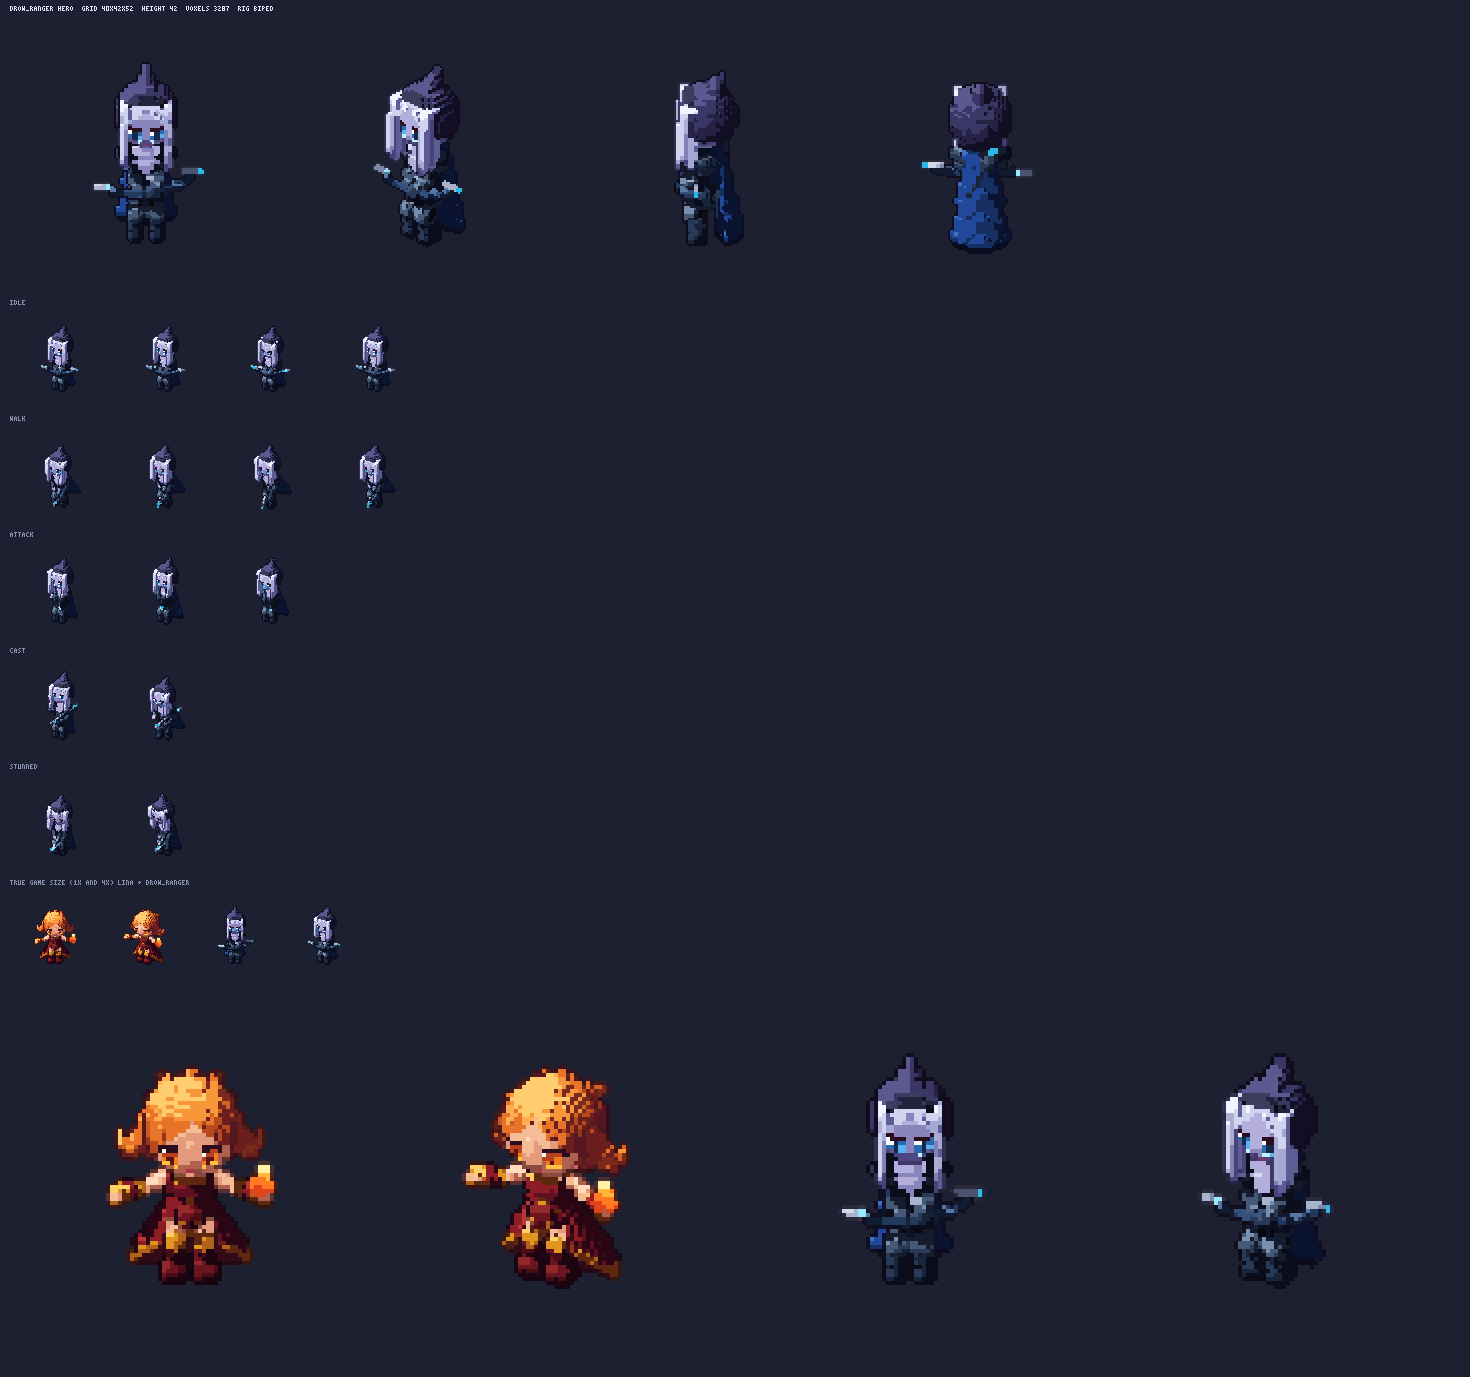
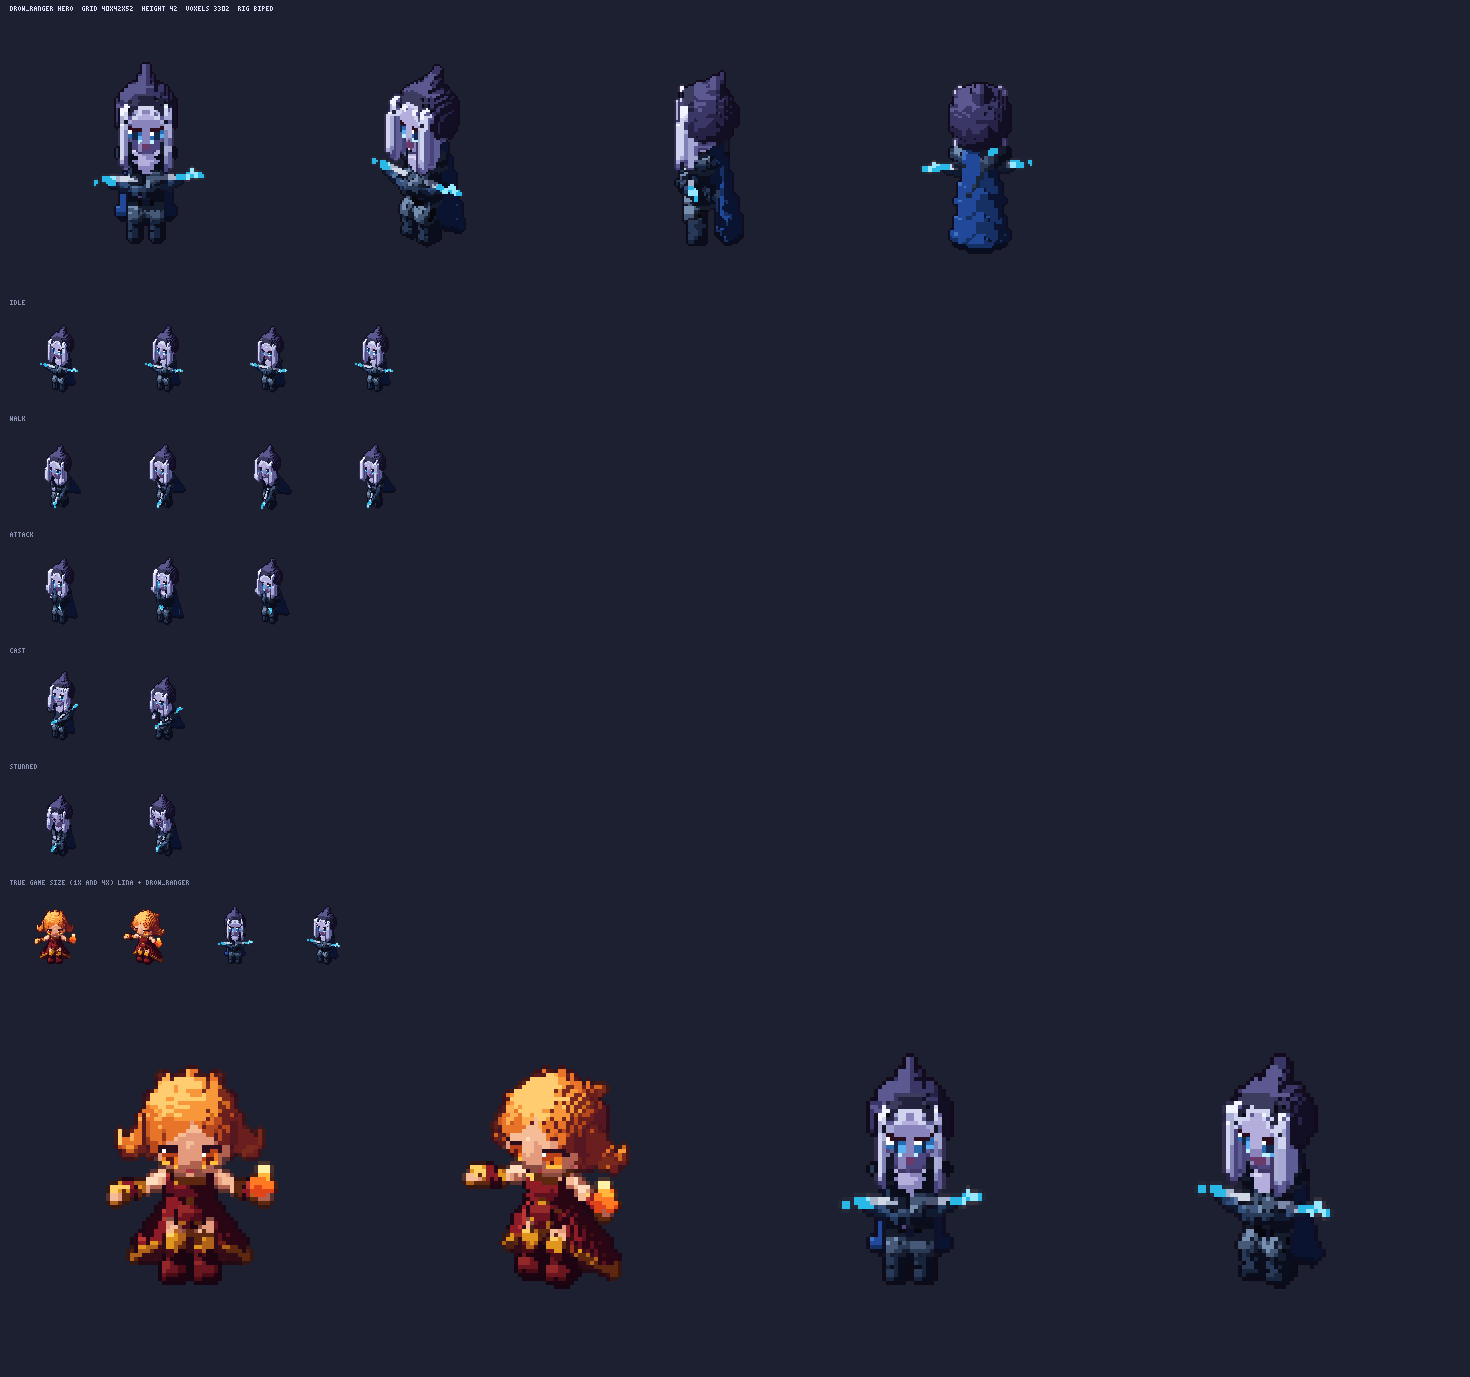
Drow Ranger review fixes: recurve bow reads (centred grip, stronger bend + tip flick, string under the limbs); skin chin + neck, lower collar, hair tapered into the hood

diff --git a/client/src/art/portraits/drow_ranger.js b/client/src/art/portraits/drow_ranger.js
@@ -1,7 +1,7 @@
 // GENERATED by tools/vox/portrait.mjs (drow_ranger) -- do not edit by hand. Voxel HUD portrait 32x42 (= the 32x42 the HUD shows, 1 art px = 1 u), opaque.
 // Loaded by client/src/art/portraits.js, which swaps it into the sheet's 'portrait' frame unless ?vox=0.
 export default {
-  pal: { '0':'#46447a', '1':'#0a0e1c', '2':'#aaaed4', '3':'#707fc8', '4':'#141428', '5':'#d0d4ee', '6':'#14284a', '7':'#525863', '8':'#a8b0ca', '9':'#5ab0f0', '!':'#111314', '#':'#151d1f', '$':'#1b3037', '%':'#4e4680', '&':'#5e5c94', '(':'#25505f', ')':'#a4a8d2', '*':'#120b1b', '+':'#342e4e', ',':'#3a3666', '-':'#e2efe7', '/':'#8a84bc', ':':'#d0dedd', ';':'#141c2e', '<':'#080b16', '=':'#8b91ac', '>':'#b8cafe', '?':'#2b2a3d', '@':'#18243c', 'A':'#111021', 'B':'#0c1425', 'C':'#262246', 'D':'#a0a6be', 'E':'#2a0e1e', 'F':'#0e0b18', 'G':'#131120', 'H':'#2a3a54', 'I':'#212d42', 'J':'#101624', 'K':'#0d0c1a', 'L':'#9ea8b5', 'M':'#0e0915', 'N':'#c3ccdd', 'O':'#0e0d21', 'P':'#606f79', 'Q':'#11254e', 'R':'#7a8f94', 'S':'#222130', 'T':'#62657e', 'U':'#317c94', 'V':'#909c9e', 'W':'#8082b6', 'X':'#6f7ec6', 'Y':'#bff0ff', 'Z':'#6a3a6a', '[':'#7d99d6', ']':'#647ebf', '^':'#283a58', '_':'#648bdf', 'a':'#8e9ba6', 'b':'#22489a', 'c':'#6c8bce', 'd':'#9cb7be', 'e':'#4e6cae', 'f':'#1f2d45', 'g':'#131c2f', 'h':'#7382ca', 'i':'#6c6f8e', 'j':'#120e24', 'k':'#d8e2e2', 'l':'#7c97d4', 'm':'#292342', 'n':'#91a7ac', 'o':'#222837', 'p':'#abc2c3', 'q':'#1b3878', 'r':'#37465e', 's':'#4b575e', 't':'#939ea5', 'u':'#22223c', 'v':'#7281ca', 'w':'#5c5890', 'x':'#f2f4ff', 'y':'#4d535a', 'z':'#d9e2eb', '{':'#2a6ab0', '|':'#ffffff', '}':'#b3c4fa', '~':'#2d2445', '¡':'#627cbc', '¢':'#9394b1', '£':'#637dbd', '¤':'#a6bbf1', '¥':'#2ab8e6', '¦':'#101a30', '§':'#7c88a8', '¨':'#616a83', '©':'#0f0d19', 'ª':'#859798', '«':'#0b0a1a', '¬':'#6277a7', '®':'#36313c', '¯':'#8394be', '°':'#6e767b', '±':'#78b5c7', '²':'#0d1c3a', '³':'#5a73a6', '´':'#566fa4', 'µ':'#142136', '¶':'#1b2c48', '·':'#0e1523', '¸':'#2d353a' },
+  pal: { '0':'#141428', '1':'#46447a', '2':'#0a0e1c', '3':'#aaaed4', '4':'#707fc8', '5':'#525863', '6':'#222837', '7':'#a8b0ca', '8':'#8b91ac', '9':'#14284a', '!':'#111314', '#':'#151d1f', '$':'#1b3037', '%':'#4e4680', '&':'#25505f', '(':'#5e5c94', ')':'#120b1b', '*':'#342e4e', '+':'#a4a8d2', ',':'#3a3666', '-':'#8a84bc', '/':'#e2efe7', ':':'#2190b3', ';':'#0c1425', '<':'#080b16', '=':'#d0d4ee', '>':'#5ab0f0', '?':'#141c2e', '@':'#18243c', 'A':'#1b1f2b', 'B':'#b8cafe', 'C':'#d0dedd', 'D':'#2ab8e6', 'E':'#1b2c48', 'F':'#262246', 'G':'#2a0e1e', 'H':'#0e0b18', 'I':'#2a3a54', 'J':'#101624', 'K':'#9ea8b5', 'L':'#0e0915', 'M':'#8082b6', 'N':'#36313c', 'O':'#0d0c1a', 'P':'#62657e', 'Q':'#317c94', 'R':'#909c9e', 'S':'#c3ccdd', 'T':'#6f7ec6', 'U':'#bff0ff', 'V':'#6a3a6a', 'W':'#131120', 'X':'#647ebf', 'Y':'#292342', 'Z':'#91a7ac', '[':'#0e0d21', ']':'#648bdf', '^':'#2b2a3d', '_':'#9ae8ff', 'a':'#606f79', 'b':'#4a5470', 'c':'#546ca1', 'd':'#7a8f94', 'e':'#7382ca', 'f':'#6c6f8e', 'g':'#4d535a', 'h':'#a0a6be', 'i':'#120e24', 'j':'#7c97d4', 'k':'#22489a', 'l':'#1b3878', 'm':'#a8b4cc', 'n':'#616a83', 'o':'#212d42', 'p':'#7c88a8', 'q':'#111021', 'r':'#7281ca', 's':'#5c5890', 't':'#22223c', 'u':'#f2f4ff', 'v':'#2a6ab0', 'w':'#ffffff', 'x':'#7d99d6', 'y':'#283a58', 'z':'#627cbc', '{':'#4e5b64', '|':'#a6bbf1', '}':'#8e9ba6', '~':'#a7bdf3', '¡':'#3a4257', '¢':'#838c9f', '£':'#37465e', '¤':'#abc2c3', '¥':'#566977', '¦':'#4b575e', '§':'#3d474e', '¨':'#101a30', '©':'#131c2f', 'ª':'#0b0a1a', '«':'#4e6cae', '¬':'#0d1c3a', '®':'#142136', '¯':'#060810', '°':'#718286', '±':'#08060e' },
   face: [4, 11, 24, 24],
   rows: [
     '!!!!!!!!!!!#!#!#!#######!#!#!!!!',
@@ -11,40 +11,40 @@ export default {
     '!!!!!!!#!######$#$#$#$#$######!#',
     '!!!!!!#!####$#$$$$$$$$$$$#$#####',
     '!!!!!#!#!####$#$$$$$$$$$$$#$####',
-    '!!!!#!####$#$**$($($($($($$#$###',
-    '!!!!!!!#!##$*hL*$($($($($$$$####',
-    '!!#!#!####$#*hiL*$((((($($$$$#$#',
-    '!!!!!#!####$*3iTL*(((((($($$#$##',
-    '!!!!####$#$*3,CTTLM(U(((($$$$#$#',
-    '!!!!!#!###**3,C477VMMU(($$$$#$##',
-    '!!#!#!###*3,,4C44777VMU(($($$#$#',
-    '!!!!!#!#**3,,4u444477V+++($$#$##',
-    '!!!!###*vwx55))))))&DyzN-+$$$#$#',
-    '!!!!!#!*3,,)))&&)%%)&&&D-+$$####',
-    '!!#!#!*3,,,2))&)////&&&D-+$$$#$#',
-    '!!!!!#*3,,,2W)&)//%%%&&D-+#$#$##',
-    '!!!!#!*3,,52))&%%%%%%%&D-+$#$###',
-    '!!!!!!*3,C52)0/%%%%%%%&8-+#$####',
-    '!!!!!!*3,C52)0EEE%%%EE&=-+$#####',
-    '!!!!!!*3,j52)066{%%%|6&=-+####!#',
-    '!!!!#!#*Xj52)0669%%%669=-+#####!',
-    '!!!!!!!!*X>2)0969%%%9Y&8-+##!#!#',
-    '!!!!!!#!*X>2)099Y%%%Y&&8-+###!#!',
-    '!!!!!!!!!+>2)0%%%%%%&&&8-+!#!#!!',
-    '!!!!!!!!#+>2)00%ZZZkF}&8-+#!#!#!',
-    '!!!!!!!!!+>2):0&&&k~¡&&8-+!#!!!!',
-    '!!!!!!!!!G>2N://%¢%%1&&8-+#!!!!!',
-    '!!!!!!!!F[5)N:///%%/10&=-+!!!!!!',
-    '!!!!!!!F]^)WN:1%%%%110&=-+!!#!!!',
-    '!!!!!!!F]^W00:%%/%%%100=-+!!!!!!',
-    '!!!!!!!!Gl;&&:%//%%%;;0:m!!!!!!!',
-    '!!!!!!!!GlHHH&1/%%%11nFm!????o!!',
-    '!!!!!!!!!O_£@@@1%%%1nG!!?¤aaa¥o!',
-    '!!!!!!!!!O_b]@@1111PPpG!!Ac¦dA!!',
-    '!!!!!!!!O_qb[HI;1§¨;Pp©!AcBdA!!!',
-    '!!!!!!!!OebQ[IHJ1<;JPªAKcBdK!!!!',
-    '!!!!!!!!«eqQ¬rIJ<<IJssBBBRK!!!!!',
-    '!!!!?SSS®eQQ^frI;Jfg@<<RAK!!!!!!',
-    '!!!S¯t°t±R²³f´µ¶Bg·g<<¸RK!!!!!!!'
+    '!!!!#!####$#$))$&$&$&$&$&$$#$###',
+    '!!!!!!!#!##$)eK)$&$&$&$&$$$$####',
+    '!!#!#!####$#)efK)$&&&&&$&$$$$#$#',
+    '!!!!!#!####$)4fPK)&&&&&&$&$$#$##',
+    '!!!!####$#$)4,FPPKL&Q&&&&$$$$#$#',
+    '!!!!!#!###))4,F055RLLQ&&$$$$#$##',
+    '!!#!#!###)4,,0F00555RLQ&&$&$$#$#',
+    '!!!!!#!#)4,,,00000055R**$&$$#$##',
+    '!!!!###)rs,t=+00+++(5gS/*$$$$#$#',
+    '!!!!!#!)4,u==+0(+%%++05h/*$$####',
+    '!!#!#!)4,,,3++((----(((h/*$$$#$#',
+    '!!!!!#)4,,,3M+((--%%%((g/*#$#$##',
+    '!!!!#!)4,,,3M0(%%%%%%%(7/*$#$###',
+    '!!!!!!)4,F,3+1-%%%%%%%(7/*#$####',
+    '!!!!!!)4,F=3+1GGG%%%GG(8/*$#####',
+    '!!!!!!)4,i=3+199v%%%w9(8/*####!#',
+    '!!!!#!#)Ti=3+199>%%%99>8/*#####!',
+    '!!!!!!!!)TB3+1>9>%%%>U(7/*##!#!#',
+    '!!!!!!#!)TB3+1>>U%%%U((7/*###!#!',
+    '!!!!!!!!!*B3+1%%%%%%%((7/*!#!#!!',
+    '!!!!!!!!#*B3+1%--VVV%((7/*#!#!#!',
+    '!!!!!!!!!*B3+1%%%%%%%((7/*!#!!!!',
+    '!!!!!!!!!WB3+C-%%%%??((7/*#!!!!!',
+    '!!!!!!!!Hx=+SC--%%%%?1(8/*!!!!!!',
+    '!!!!!!!HXy+MSC---%%221(8/*!!#!!!',
+    '!!!!!!!HX2M188C--%%%2118/*!!!!!!',
+    '!!!!!!!!Wj2((C%--%%%2?1CY!!!!!!!',
+    '!!!!!!!!WjIII(2-%%%2ZHYY!!!N!!!!',
+    '!!!!!!!!![]z@@@2%%%{ZH!^^66_N6!!',
+    '!!!!!!!!![]kX@@222?aaZ^|}DD__D6!',
+    '!!!!!!A66]lk~mn?@Io?ab¡bbDANN6!!',
+    '!!!!6AD:D:p¢mnpJ2£IJ¤Oqc¥dq!!!!!',
+    '!!!A::::::;;EEJJ<Jo¦§;;dOO!!!!!!',
+    '!!!!6AAA[c;;¨EEE@©<<2<dO!!!!!!!!',
+    '!!!!!!!ª«l¬c;;®E<<¯<<°±!!!!!!!!!'
   ]
 };

diff --git a/shared/vox/heroes/drow_ranger.js b/shared/vox/heroes/drow_ranger.js
@@ -19,14 +19,14 @@ export const PROP = {
 const HZ = PROP.headZ, SKULL = [5.4, 5.1, 6];
 // hair fringe bottom per column dx -6..6: parted in the middle, sweeping down past the temples
 const FRINGE = [26, 28, 31.6, 33, 33.8, 34.6, 34.6, 33.8, 33, 31.6, 28, 26, 25].map(z => z + (HZ - 30.4));
-const HOLD_L = [-2.6, -5, -7.2];   // left hand low in front of the hip, gripping the bow (reach from the left shoulder, torso frame)
+const HOLD_L = [-4.4, -5, -7.2];   // left hand low in front of the hip, gripping the bow (reach from the left shoulder, torso frame)
 const HOLD_R = [2.8, -3.6, -7.6];  // right hand near the string
 
 /** Bow pose [tilt, yaw, len]: tilt 0 = limbs across the front (her right tip slightly down), 90 = upright; yaw turns the bow face (degrees). */
 const bowAxes = (tilt, yaw) => {
   const t = tilt * Math.PI / 180, w = yaw * Math.PI / 180;
   const d = norm3([-Math.cos(t) * Math.cos(w), -Math.cos(t) * Math.sin(w), Math.sin(t)]);   // from the grip toward her right / up
-  const n = norm3([-Math.sin(w) * 0.6, Math.cos(w) * 0.6, 0.8 * Math.cos(t)]);                       // string side: toward her and up (limbs curve up)
+  const n = norm3([-Math.sin(w) * 0.4, Math.cos(w) * 0.4, 0.92 * Math.cos(t)]);                       // string side: toward her and up (limbs curve up)
   return [d, n];
 };
 
@@ -86,7 +86,7 @@ export function build(p = {}) {
   }
 
   // ---- bodice: dark navy leather, pinched waist, a steel belt; short tassets over the hips; a pale skin V at the neckline
-  torso(v, T.torso, { c: [cx, cy], z0: 9.6 + U, z1: 20.8 + U, r: 6 }, (dx, dy, z) => {
+  torso(v, T.torso, { c: [cx, cy], z0: 9.6 + U, z1: 19.8 + U, r: 6 }, (dx, dy, z) => {
     const rx = 3 - Math.max(0, 3.6 - z) * 0.05 + Math.max(0, z - 5) * 0.16, ry = 2.3 + (dy < 0 && z > 6 && z < 9.4 ? 0.5 : 0);
     if ((dx / rx) ** 2 + (dy / ry) ** 2 > 1) return;
     if (z > 1.6 && z < 2.6) return M.steel;
@@ -96,8 +96,8 @@ export function build(p = {}) {
   skirt(v, T.torso, { c: [cx, cy + 0.2], z0: 7.4 + U, z1: 10.6 + U, zr: 10.6 + U, h: 3.6, r0: 3.6, dr: 1, sy: 0.82, shell: 1, open: 40, hemH: 0.8, floor: () => 7.4 + U }, M.navy, M.steel);
 
   // ---- shoulders: navy mantle, layered steel-blue pauldrons (two tiers)
-  ell(v, T.torso, [cx, cy + 0.6, 19.6 + U], [5.6, 3.8, 2.2], M.navy, (px, py, pz) => pz > 19 + U && (Math.abs(px - cx) > 2.6 || py > cy + 0.4));
-  cap(v, T.torso, [cx, cy + 0.3, 20 + U], [cx, cy + 0.3, 22 + U], 1.5, M.skin);   // neck
+  ell(v, T.torso, [cx, cy + 0.6, 18.6 + U], [5.6, 3.8, 2.2], M.navy, (px, py, pz) => pz > 18 + U && (Math.abs(px - cx) > 2.6 || py > cy + 0.4));
+  cap(v, T.torso, [cx, cy + 0.3, 20 + U], [cx, cy + 0.3, 22.4 + U], 1.8, M.skin);   // neck
 
   for (const k of ['R', 'L']) {
     const sh = J['shoulder' + k];
@@ -121,12 +121,13 @@ export function build(p = {}) {
   const hair = (px, pz) => (pz > hz + 4 ? M.hair : stripes(M.hair, M.hairD, 3, hz + 4)(px, pz));
   hairShell(v, Th, {
     c: [hx, hy + 0.5, hz + 0.5], r: [SKULL[0] + 0.9, SKULL[1] + 0.9, SKULL[2] + 0.8], win, face: { c: [hx, hy, hz], r: SKULL, m: M.skin }, head: [cx, cy],
-    curtains: { inner: 4.2, outer: 6, outerK: -0.04, zRef: hz, front: -5.6, frontK: -0.08, back: -0.6, tip: hz - 10.6, tipStep: 0.8, tipX: 4.4, tipK: 1.2, box: [-9, -8, hz - 13, 9, 4, hz + 4] },
+    curtains: { inner: 4.2, outer: 5.8, outerK: 0.07, zRef: hz, front: -5.6, frontK: -0.08, back: -0.6, tip: hz - 10.6, tipStep: 0.8, tipX: 4.4, tipK: 1.2, box: [-9, -8, hz - 13, 9, 4, hz + 4] },
   }, hair);
   // hood: dark indigo shell with a dark lining at the rim, open in front of the face, a tall point leaning back off the crown
-  const hoodWin = (px, py, pz) => (Math.abs(px - cx) < 6.4 && pz < hz + 5.4 && py < hy - 2.4 + Math.max(0, hz - 1 - pz) * 1.4) || (pz < hz - 2.6 && py < hy + 3.4);
+  const hoodWin = (px, py, pz) => (Math.abs(px - cx) < 6.4 - Math.max(0, pz - hz + 1) * 0.7 && pz < hz + 5.4 && py < hy - 2.4 + Math.max(0, hz - 1 - pz) * 1.4) || (pz < hz - 2.6 && py < hy + 3.4);
   ell(v, Th, [hx, hy + 1.2, hz + 1], [7.1, 7, 7.4], (px, py, pz) => (py < hy - 3.6 || (py < hy - 1.8 && pz > hz + 4.4) ? M.lining : M.hood), (px, py, pz) => !hoodWin(px, py, pz));
   cap(v, Th, [hx, hy + 2.2, hz + 6], [hx, hy + 5.4, hz + 11.6], 3.2, M.hood, 0.5);
+  ell(v, Th, [hx, hy - 1.6, hz - 5.2], [2.8, 2.6, 1.8], M.skin);   // chin: skin over the hair shell's bottom cap
 
   // ---- face, painted on the front-most voxels (follows the posed head)
   const ez0 = Math.round(hz - 3.6), ec = xfApply(Th, [cx, hy - SKULL[1], ez0 + 2]), ox = Math.round(ec[0] - cx), ez = ez0 + Math.round(ec[2] - (ez0 + 2));
@@ -143,8 +144,8 @@ export function build(p = {}) {
   decal(v, [[cx - 1 + ox, ez - 2], [cx + ox, ez - 2]], M.mouth);
 
   // ---- bow in the left hand (after the face so it never takes the eye paint): dark limbs, glowing cyan recurve tips, pale string
-  const [tilt, yaw, len] = p.bow || [-8, 6, 13], [d, n] = bowAxes(tilt, yaw);
-  bow(v, J.handL, d, n, { len, bend: 4.8, recurve: 1.3, r: 0.85 }, { limb: M.wood, tip: (px, py, pz) => (Math.floor(px + py + pz) % 3 === 0 ? M.tipL : M.tip), grip: M.navy, string: M.string });
+  const [tilt, yaw, len] = p.bow || [0, 6, 12], [d, n] = bowAxes(tilt, yaw);
+  bow(v, J.handL, d, n, { len, bend: 5.6, recurve: 2.6, r: 0.9 }, { limb: M.wood, tip: (px, py, pz) => (Math.floor(px + py + pz) % 3 === 0 ? M.tipL : M.tip), grip: M.navy, string: M.string });
   return v;
 }
 
@@ -154,7 +155,7 @@ const range = n => [...Array(n).keys()];
 export const ANIMS = {
   idle: range(4).map(i => {
     const b = [0, 1, 2, 1][i];
-    return { bob: -b * 0.2, head: [b * 1.2, 0, 0], reachL: [-2.6, -5, -7.2 + b * 0.2], bow: [-8 + b, 6, 13] };
+    return { bob: -b * 0.2, head: [b * 1.2, 0, 0], reachL: [-4.4, -5, -7.2 + b * 0.2], bow: [b * 0.6, 6, 12] };
   }),
   walk: range(4).map(i => {
     const st = [1, 0, -1, 0][i];

diff --git a/shared/vox/parts.js b/shared/vox/parts.js
@@ -306,13 +306,13 @@ export function shield(v, rig, k, o, M) {
  * r (limb radius), string (false = none) }. M: { limb, tip?, grip?, string? }; tip = the outer recurve (often emissive). Returns the tips [a, b]. */
 export function bow(v, g, d, n0, o, M) {
   const n = norm3(sub3(n0, mul3(d, dot3(d, n0)))), L = o.len ?? 9, bend = o.bend ?? 2.4, rc = o.recurve ?? 1.4, r = o.r ?? 0.6, N = Math.max(6, Math.ceil(L * 1.5));
-  const at = t => { const a = Math.abs(t), f = Math.max(0, (a - 0.75) / 0.25); return add3(add3(g, mul3(d, L * t)), mul3(n, bend * a * a - rc * f * f)); };
+  const at = t => { const a = Math.abs(t), f = Math.max(0, (a - 0.68) / 0.32); return add3(add3(g, mul3(d, L * t)), mul3(n, bend * a * a - rc * f * f)); };
+  const a = at(-1), b = at(1);
+  if (o.string !== false) v.capsule(a, b, 0.35, M.string || M.limb);   // string first: the limbs and tips win where they meet
   for (const s of [-1, 1]) for (let i = 0; i < N; i++) {
-    const t0 = s * i / N, t1 = s * (i + 1) / N, tip = M.tip && Math.abs(t1) > 0.78;
+    const t0 = s * i / N, t1 = s * (i + 1) / N, tip = M.tip && Math.abs(t1) > 0.7;
     v.capsule(at(t0), at(t1), r * (1 - Math.abs(t0) * 0.35), tip ? M.tip : M.limb, r * (1 - Math.abs(t1) * 0.35));
   }
   v.capsule(add3(g, mul3(d, -1.2)), add3(g, mul3(d, 1.2)), r * 1.5, M.grip || M.limb);
-  const a = at(-1), b = at(1);
-  if (o.string !== false) v.capsule(a, b, 0.35, M.string || M.limb);
   return [a, b];
 }
